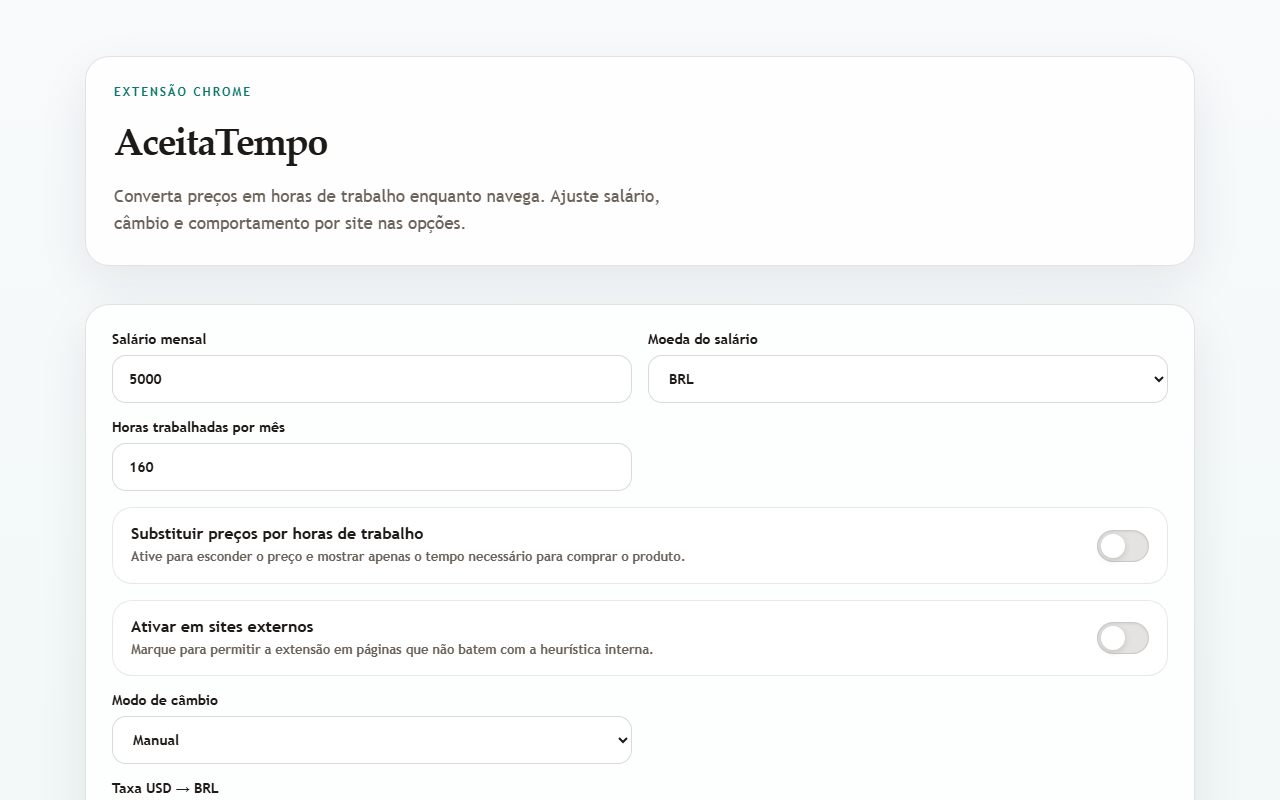
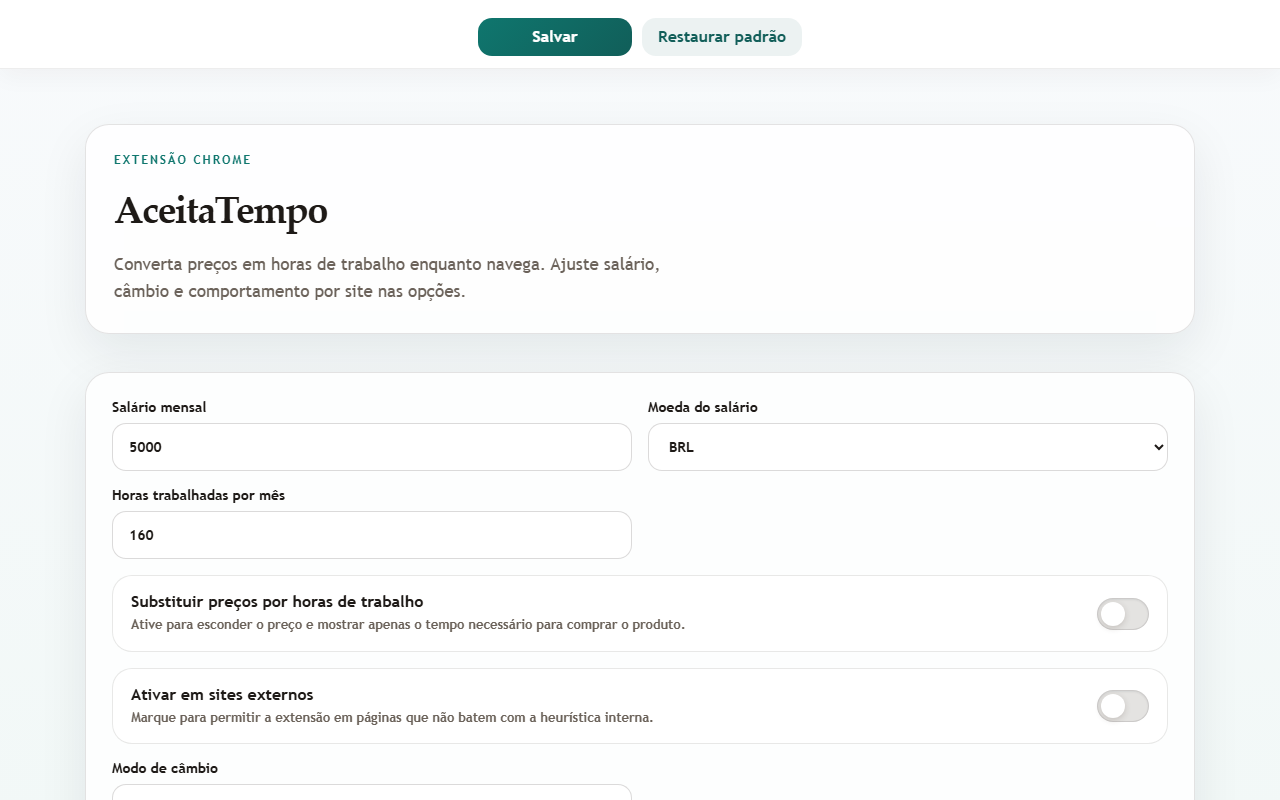
test: add smoke test suite for social awareness features and include option screenshot

diff --git a/tests/run-social-smoke.js b/tests/run-social-smoke.js
@@ -40,8 +40,10 @@ async function installChromeStub(page, {
   activeTab = null,
   tabMessageResponse = null,
   tabMessageResponseStepMs = 0,
+  storageSetDelayMs = 0,
+  runtimeSendMessageDelayMs = 0,
 } = {}) {
-  await page.evaluate(({ syncSettings, localState, messages, uiLanguage, activeTab, tabMessageResponse, tabMessageResponseStepMs }) => {
+  await page.evaluate(({ syncSettings, localState, messages, uiLanguage, activeTab, tabMessageResponse, tabMessageResponseStepMs, storageSetDelayMs, runtimeSendMessageDelayMs }) => {
     const storageState = {
       sync: { ...syncSettings },
       local: { ...localState },
@@ -83,8 +85,17 @@ async function installChromeStub(page, {
           callback(response);
         },
         set(values, callback) {
-          Object.assign(storageState[areaName], values || {});
-          callback?.();
+          const applyValues = () => {
+            Object.assign(storageState[areaName], values || {});
+            callback?.();
+          };
+
+          if (Number.isFinite(storageSetDelayMs) && storageSetDelayMs > 0) {
+            setTimeout(applyValues, storageSetDelayMs);
+            return;
+          }
+
+          applyValues();
         },
         remove(keys, callback) {
           const entries = Array.isArray(keys) ? keys : [keys];
@@ -109,7 +120,15 @@ async function installChromeStub(page, {
         },
         runtime: {
           lastError: null,
-          sendMessage: (_message, callback) => callback?.({ ok: true }),
+          sendMessage: (_message, callback) => {
+            const respond = () => callback?.({ ok: true });
+            if (Number.isFinite(runtimeSendMessageDelayMs) && runtimeSendMessageDelayMs > 0) {
+              setTimeout(respond, runtimeSendMessageDelayMs);
+              return;
+            }
+
+            respond();
+          },
           openOptionsPage: async () => {},
         },
         tabs: {
@@ -135,7 +154,17 @@ async function installChromeStub(page, {
         },
       },
     });
-  }, { syncSettings, localState, messages, uiLanguage, activeTab, tabMessageResponse, tabMessageResponseStepMs });
+  }, {
+    syncSettings,
+    localState,
+    messages,
+    uiLanguage,
+    activeTab,
+    tabMessageResponse,
+    tabMessageResponseStepMs,
+    storageSetDelayMs,
+    runtimeSendMessageDelayMs,
+  });
 }
 
 async function injectContentScripts(page) {
@@ -422,7 +451,10 @@ async function runOptionsAssertions(browser) {
   await installChromeStub(page, {
     syncSettings: {},
     messages: loadMessages('en'),
+    storageSetDelayMs: 800,
+    runtimeSendMessageDelayMs: 300,
   });
+  await page.addStyleTag({ content: fs.readFileSync(path.join(ROOT, 'options.css'), 'utf8') });
 
   await page.addScriptTag({ content: fs.readFileSync(path.join(ROOT, 'src', 'site-config.js'), 'utf8') });
   await page.addScriptTag({ content: fs.readFileSync(path.join(ROOT, 'options.js'), 'utf8') });
@@ -431,15 +463,37 @@ async function runOptionsAssertions(browser) {
   assert.strictEqual(await page.isChecked('#socialAwarenessEnabled'), false, 'social master toggle should start disabled');
   assert.strictEqual(await page.locator('#salaryPeriod').inputValue(), 'monthly', 'salary period should default to monthly');
   assert.strictEqual(await page.locator('#timeDisplayMode').inputValue(), 'hours', 'time display mode should default to hours');
+  assert.strictEqual(await page.locator('.form-dock').evaluate((node) => getComputedStyle(node).position), 'fixed', 'actions dock should stay fixed to the viewport');
+  const sectionTitles = await page.locator('.settings-section__header h2').allInnerTexts();
+  assert.deepStrictEqual(
+    sectionTitles,
+    ['Calculation basics', 'Time display', 'Sites and exceptions', 'Social awareness'],
+    'settings should be grouped in the expected order'
+  );
   const selectedCount = await page.locator('[data-social-site-id]:checked').count();
   assert.strictEqual(selectedCount, 4, 'all supported social sites should be selected by default');
   assert.strictEqual(await page.locator('[data-social-site-id=\"youtube-shorts\"]').count(), 1, 'options should expose a dedicated YouTube Shorts toggle');
   assert.strictEqual(await page.locator('#socialAwarenessControls').evaluate((node) => node.hidden), true, 'social suboptions should stay hidden while master toggle is off');
 
-  await page.click('#socialAwarenessEnabled');
+  await page.locator('#socialAwarenessEnabled').check({ force: true });
   await page.waitForTimeout(100);
   assert.strictEqual(await page.locator('#socialAwarenessControls').evaluate((node) => node.hidden), false, 'social suboptions should appear after enabling the feature');
   assert.strictEqual(await page.locator('#socialPromptEnabled').isDisabled(), false, 'social suboptions should become interactive when the master toggle is on');
+
+  await page.fill('#salaryAmount', '6123.45');
+  await page.click('#saveButton');
+  await page.waitForTimeout(100);
+  assert.strictEqual(await page.locator('#saveButton').isDisabled(), true, 'save button should disable while saving');
+  assert.match(await page.locator('#saveButtonLabel').innerText(), /Saving/i, 'save button should show a loading label');
+  assert.strictEqual(await page.locator('#saveToast').evaluate((node) => node.hidden), true, 'toast should still be hidden during the save');
+
+  await page.waitForTimeout(1100);
+  assert.strictEqual(await page.locator('#saveToast').evaluate((node) => node.hidden), false, 'toast should appear after saving finishes');
+  assert.match(await page.locator('#saveToastTitle').innerText(), /All set/i, 'toast should use a success title');
+  assert.match(await page.locator('#saveToastMessage').innerText(), /Settings saved\./i, 'toast should show a success message');
+
+  await page.waitForTimeout(3000);
+  assert.strictEqual(await page.locator('#saveToast').evaluate((node) => node.hidden), true, 'toast should auto-dismiss after a short delay');
 
   await page.close();
 }